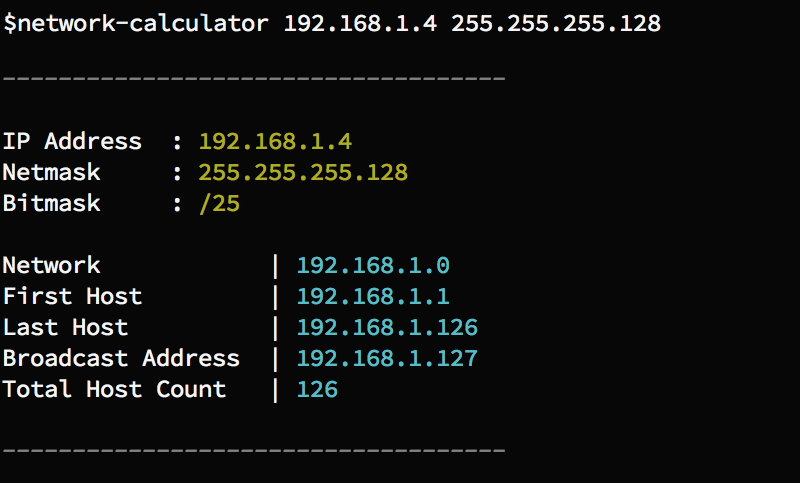
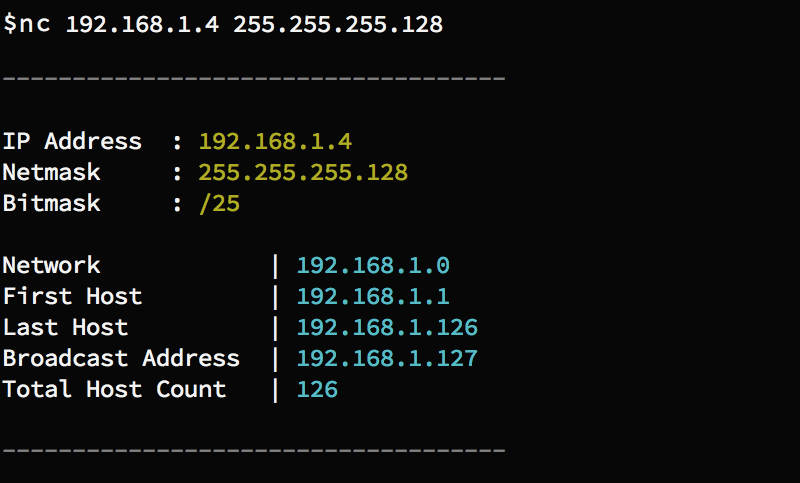
make cli command shorter & add travis

Changed region(s): [[0.0, 0.0311, 0.8438, 0.0932]]

diff --git a/cli.js b/cli.js
@@ -6,10 +6,10 @@ var nc = require('./');
 var cli = meow({
   help: [
     'Usage',
-    '  network-calculator <input> <input>',
+    '  nc <input> <input>',
     '',
     'Example',
-    '  network-calculator 192.168.1.14 255.255.255.0'
+    '  nc 192.168.1.14 255.255.255.0'
   ].join('\n')
 });
 

diff --git a/index.js b/index.js
@@ -66,6 +66,5 @@ var nc = module.exports = function (ip, netmask) {
 };
 
 module.exports.output = function (ip, netmask) {
-  var res = nc(ip, netmask);
-  console.log(renderer(ip, netmask, res));
+  console.log(renderer(ip, netmask, nc(ip, netmask)));
 };

diff --git a/README.md b/README.md
@@ -1,10 +1,12 @@
-#  Network Calculator
+#  Network Calculator [![Build Status][travis-image]][travis-url]
 
 > Network Calculator helps you get information about an IP address
 
 ![](screenshot.png)
 
 ## Install
+
+[NPM][npm-url]
 
 ```sh
 $ npm install --save network-calculator
@@ -34,13 +36,13 @@ $ npm install -g network-calculator
 ```
 
 ```
-$ network-calculator --help
+$ nc --help
 
 Usage
-network-calculator <ip> <netmask>
+nc <ip> <netmask>
 
 Example
-network-calculator 192.168.1.4 255.255.255.128
+nc 192.168.1.4 255.255.255.128
 ```
 
 ## License
@@ -49,3 +51,5 @@ MIT © [Mert Kahyaoğlu](http://mertkahyaoglu.github.io/)
 
 
 [npm-url]: https://npmjs.org/package/network-calculator
+[travis-url]: https://travis-ci.org/mertkahyaoglu/network-calculator
+[travis-image]: https://travis-ci.org/mertkahyaoglu/network-calculator.svg?branch=master
